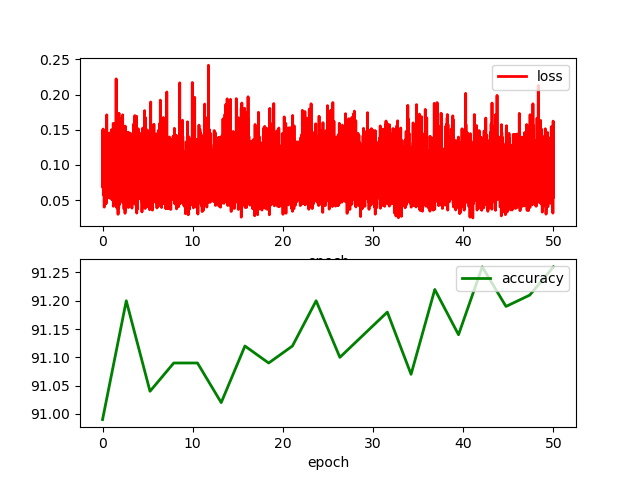
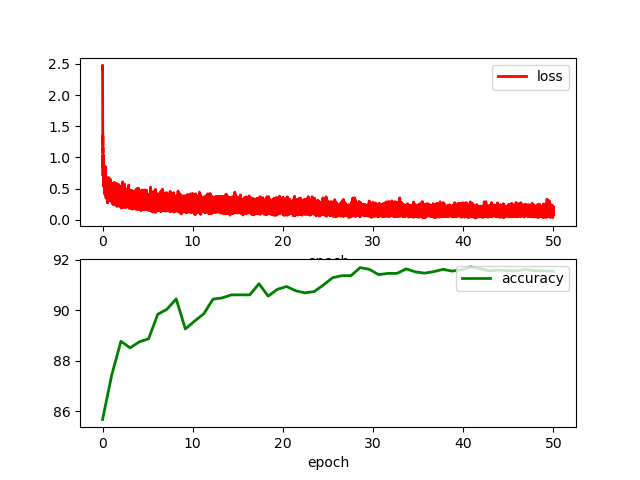
spp

diff --git a/deep_learning/module/ownnet.py b/deep_learning/module/ownnet.py
@@ -11,77 +11,68 @@ class Ownnet(nn.Module):
         super(Ownnet, self).__init__()
 
         self.layer1 = nn.Sequential(OrderedDict([
-            # (28-3 + 2)/1 + 1= 27 16*28*28
-            ('conv1', nn.Conv2d(1, 32, kernel_size=3, padding=1)),
+            # (28-3 + 4)/1 + 1= 27 16*30*30
+            ('conv1', nn.Conv2d(1, 16, kernel_size=3, padding=2)),
+            ('batchnorm1', nn.BatchNorm2d(16)),
             ('relu1', nn.ELU()),
-            # nn.BatchNorm2d(32),
             # nn.ReLU(),
-            # 16*14*14
+            # 16*15*15
             ('maxpool1', nn.MaxPool2d(kernel_size=2, stride=2)),
-            # (14-3)/1 + 1= 12 16*12*12
-            ('conv2', nn.Conv2d(32, 32, kernel_size=3, stride=1)),
-            # nn.BatchNorm2d(32),
+        ]))
+
+        self.layer2 = nn.Sequential(OrderedDict([
+            # (15-3+4)/2 + 1= 12 32*9*9
+            ('conv2', nn.Conv2d(16, 32, kernel_size=3, stride=2, padding=2)),
+            ('batchnorm2', nn.BatchNorm2d(32)),
             # nn.ReLU(),
             ('relu2', nn.ELU()),
-            # 16*6*6
-            ('maxpool2', nn.MaxPool2d(kernel_size=2, stride=2))
+            # 32*3*3
+            # ('maxpool2', nn.MaxPool2d(kernel_size=3, stride=2))
         ]))
 
         nn.init.xavier_uniform_(self.layer1.conv1.weight)
-        nn.init.xavier_uniform_(self.layer1.conv2.weight)
+        nn.init.xavier_uniform_(self.layer2.conv2.weight)
 
-        # self.layer2 = nn.Sequential(
-        #     # (9-3)/2 + 1= 4 32*4*4
-        #     nn.Conv2d(16, 32, kernel_size=3, stride=2),
-        #     # nn.BatchNorm2d(32),
-        #     nn.ReLU(),
-        #     # 32*3*3
-        #     # nn.MaxPool2d(kernel_size=2, stride=1)
-        # )
-        #
-        # self.layer3 = nn.Sequential(
-        #     nn.MaxPool2d(kernel_size=4, stride=2)
-        #     # (3-3)/1 + 1= 12 32*1*1
-        #     # nn.Conv2d(32, 32, kernel_size=3, stride=1),
-        #     # nn.BatchNorm2d(32),
-        #     # nn.ReLU()
-        # )
-
-        # window1 = np.ceil(12/4)
-        # stride1 = np.floor(12/4)
-        #
-        # self.layer2 = nn.Sequential(
-        #     nn.MaxPool2d(window1, stride=stride1),
-        # )
-
-        # window2 = np.ceil(4/1)
-        # stride2 = np.floor(4/1)
-        # self.layer3 = nn.Sequential(
-        #     nn.MaxPool2d(window2, stride=stride2),
-        # )
+        self.outpool_size = [4, 2, 1]
 
         self.layer4 = nn.Sequential(
-            # nn.Linear((9*9*16 + 4*4*32 + 1*1*32), 256),
-            # nn.ReLU(),
-            # nn.Dropout(p=0.5),
+            nn.Linear((32*4*4 + 32*2*2 + 32*1*1), 256),
+            nn.ELU(),
+            nn.Dropout(p=0.1),
             # nn.Linear(256, 10)
-            nn.Linear(32*6*6, 10)
+            nn.Linear(256, 10)
         )
 
+    def sppmodule(self, input, previous_conv_size):
+        pre_h, pre_w = previous_conv_size
+        for i in range(len(self.outpool_size)):
+            h_wid = int(np.ceil(pre_h / self.outpool_size[i]))
+            w_wid = int(np.ceil(pre_w / self.outpool_size[i]))
+            h_str = int(np.floor(pre_h / self.outpool_size[i]))
+            w_str = int(np.floor(pre_w / self.outpool_size[i]))
+
+            max_pool = nn.MaxPool2d(kernel_size=(h_wid, w_wid), stride=(h_str, w_str))
+            temp = max_pool(input)
+            # print('temp size {}'.format(temp.shape))
+
+            if(i == 0):
+                spp = temp.view(input.size(0), -1)
+            else:
+                spp = torch.cat((spp, temp.view(input.size(0), -1)), 1)
+        return spp
 
     def forward(self, input):
 
         layer1 = self.layer1(input)
         # print('layer1 size {}', layer1.shape)
-        # layer2 = self.layer2(layer1)
+        layer2 = self.layer2(layer1)
         # print('layer2 size {}', layer2.shape)
-        # layer3 = self.layer3(layer2)
-        # print('layer3 size {}', layer3.shape)
+        spp = self.sppmodule(layer2, [layer2.size(2), layer2.size(3)])
+        # print('spp size {}' .format(spp.shape))
 
-        batch_size = layer1.size(0)
-        # concat = torch.cat((layer1.view(batch_size, -1), layer2.view(batch_size, -1)), 1)
-        # concat = torch.cat((concat, layer3.view(batch_size, -1)), 1)
+        output = self.layer4(spp)
 
-
-        output = self.layer4(layer1.view(batch_size, -1))
         return output
+
+
+

diff --git a/deep_learning/train.py b/deep_learning/train.py
@@ -70,7 +70,7 @@ def trainnet(model, device, train_loader, optimizer, lr_shedule, epoch, loss_lis
 
     lr_shedule.step()
     accuracy = 100. * correct / len(train_loader.dataset)
-    print('Train set: Accuracy: {}/{} ({:.0f}%)\n'.format(
+    print('Train set: Accuracy: {}/{} ({:.0f}%)'.format(
         correct, len(train_loader.dataset), accuracy))
 
 def testnet(model, device, test_loader, accuracy_list):
@@ -105,10 +105,11 @@ if __name__ == '__main__':
            'train epoch {}\n'
            'device {}' .format(save_path, EPOCHS, device))
 
-    process = preprocess.get_transform((28, 28), argument=False)
+    train_process = preprocess.get_transform((28, 28), argument=False)
+    test_process = preprocess.get_transform((28, 28), argument=False)
 
-    trainset = DataLoader.fashionmnist_dataset(process, train=True)
-    testset = DataLoader.fashionmnist_dataset(process, train=False)
+    trainset = DataLoader.fashionmnist_dataset(train_process, train=True)
+    testset = DataLoader.fashionmnist_dataset(test_process, train=False)
 
     trainloader = torch.utils.data.DataLoader(trainset,
                                               batch_size=Batchsize,
@@ -140,11 +141,11 @@ if __name__ == '__main__':
     total_params = sum(p.numel() for p in model.parameters())
     print('total parameters {}' .format(total_params))
 
-    # optimizer = optim.SGD([{'params': model.parameters(), 'initial_lr': 0.001}], lr=0.001, momentum=0.8)
-    optimizer = optim.Adam([{'params': model.parameters(), 'initial_lr': 0.001}],
-                           lr=0.001, betas=(0.9, 0.999), eps=1e-08, weight_decay=0)
+    optimizer = optim.SGD([{'params': model.parameters(), 'initial_lr': 0.001}], lr=0.001, momentum=0.8)
+    # optimizer = optim.Adam([{'params': model.parameters(), 'initial_lr': 0.001}],
+    #                        lr=0.001, betas=(0.9, 0.999), eps=1e-08, weight_decay=0)
     # optimizer = optim.Adam(model.parameters(), lr=0.001)
-    lr_shedule = lr_scheduler.MultiStepLR(optimizer, milestones=[25, 40], gamma=0.1, last_epoch=args.last_epoch)
+    lr_shedule = lr_scheduler.MultiStepLR(optimizer, milestones=[], gamma=0.1, last_epoch=args.last_epoch)
     lr_shedule.step()
 
     loss_list = []

diff --git a/deep_learning/dataload/preprocess.py b/deep_learning/dataload/preprocess.py
@@ -4,12 +4,15 @@ __imagenet_stats = {'mean': [0.485, 0.456, 0.406],
                    'std': [0.229, 0.224, 0.225]}
 __mnist = {'mean': [0.1307],
                    'std': [0.3081]}
+__fashion_mnist = {'mean': [0.5],
+                   'std': [0.5]}
 
 def data_argument(input_size, normalize):
     para_list = [
         transforms.RandomResizedCrop(input_size),
-        transforms.RandomHorizontalFlip(),
-        transforms.RandomRotation((-45, 45)),
+        # transforms.RandomHorizontalFlip(),
+        transforms.RandomVerticalFlip(),
+        # transforms.RandomRotation((-45, 45)),
         transforms.ToTensor(),
         transforms.Normalize(**normalize)
     ]
@@ -24,7 +27,7 @@ def data_resize(input_size, normalize):
     return transforms.Compose(para_list)
 
 def get_transform(input_size = None, normalize = None, argument=False):
-    normalize = __mnist
+    normalize = __fashion_mnist
 
     if argument == True:
         return data_argument(input_size, normalize)
